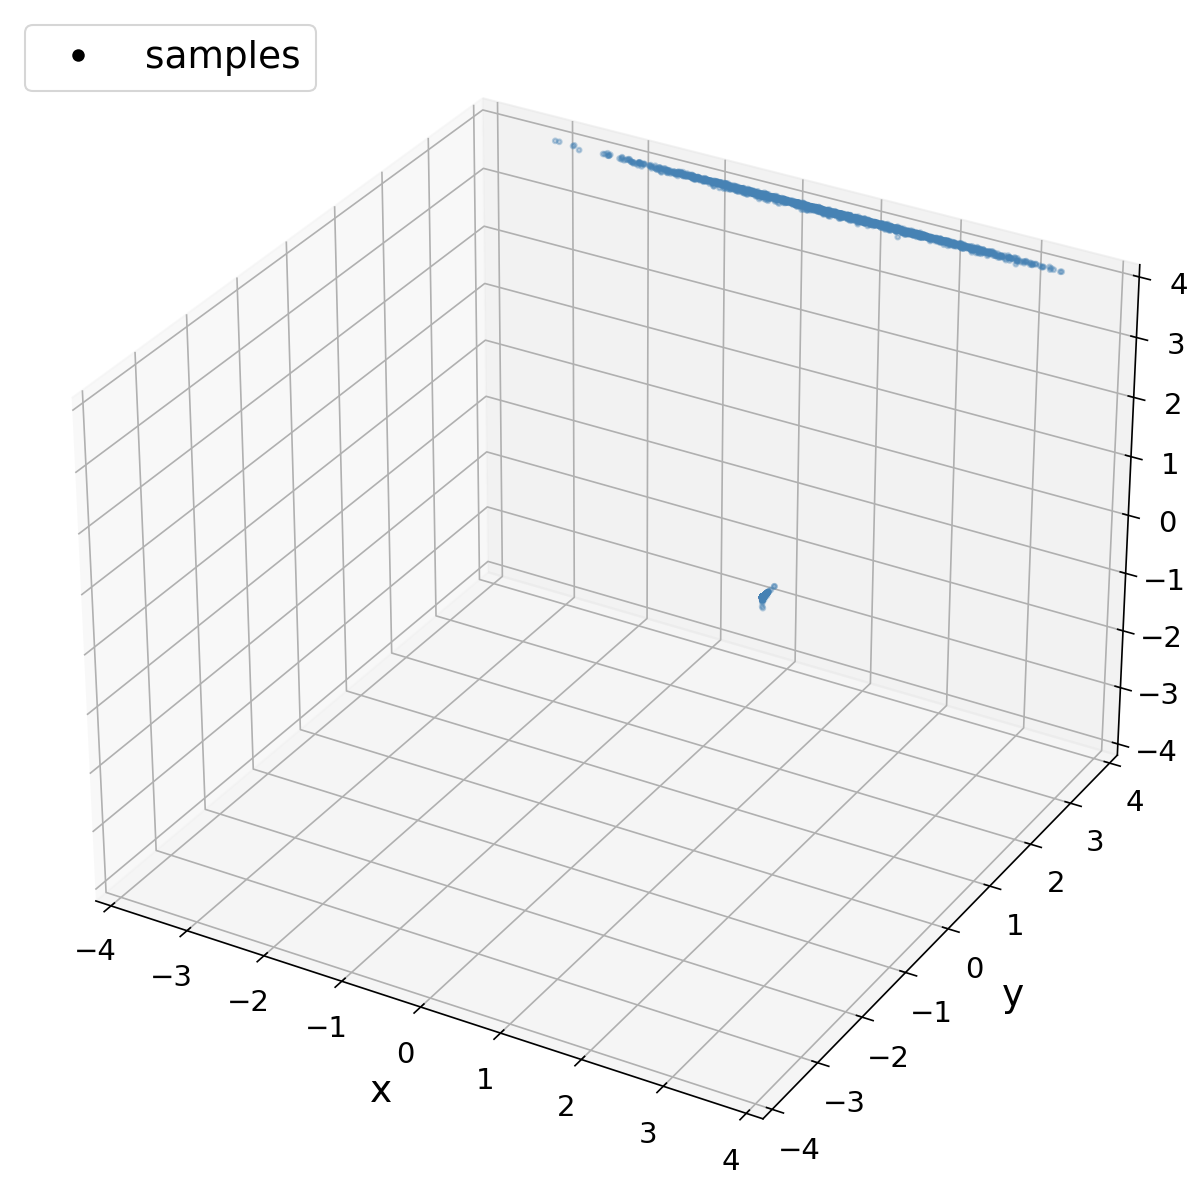
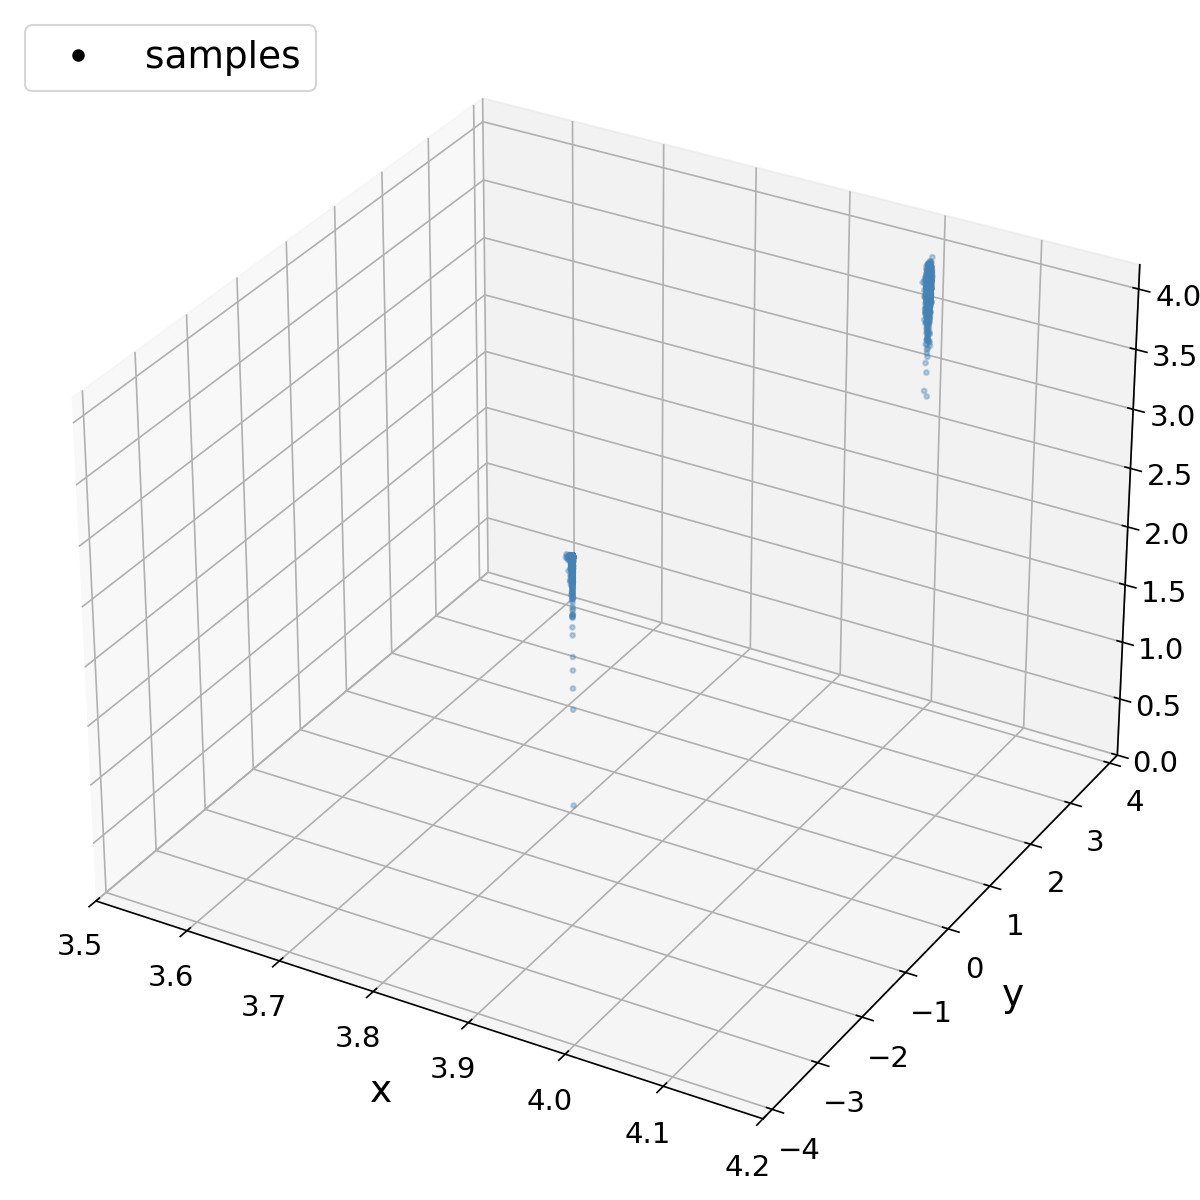
Update bimodal plots

diff --git a/experiments/rl_benchmarks/visualize_bimodal_robustified.py b/experiments/rl_benchmarks/visualize_bimodal_robustified.py
@@ -71,9 +71,9 @@ def _draw_region(ax, lower: np.ndarray, upper: np.ndarray, color, label: str | N
 def _new_3d_fig():
     fig = plt.figure(figsize=(8, 8), constrained_layout=True)
     ax = fig.add_subplot(111, projection="3d")
-    ax.set_xlim(-AXIS_LIM, AXIS_LIM)
+    ax.set_xlim(3.5, AXIS_LIM)
     ax.set_ylim(-AXIS_LIM, AXIS_LIM)
-    ax.set_zlim(-AXIS_LIM, AXIS_LIM)
+    ax.set_zlim(0, AXIS_LIM)
     ax.set_xlabel("x", fontsize=18, labelpad=8)
     ax.set_ylabel("y", fontsize=18, labelpad=8)
     ax.set_zlabel("z", fontsize=18, labelpad=8)
@@ -231,7 +231,7 @@ def main() -> None:
                         help="Number of noisy state samples per smoothing call.")
     parser.add_argument("--confidence-N", type=int, default=4000,
                         help="Number of Monte Carlo samples for confidence estimation.")
-    parser.add_argument("--alpha", type=float, default=0.4,
+    parser.add_argument("--alpha", type=float, default=0.2,
                         help="Alpha-trimming fraction (0 <= alpha < 0.5).")
     parser.add_argument("--coverage", type=float, default=0.9)
     parser.add_argument("--max-clusters", type=int, default=3)
